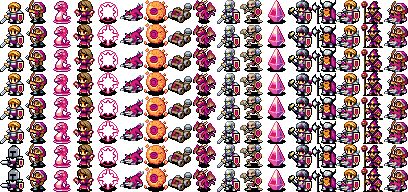
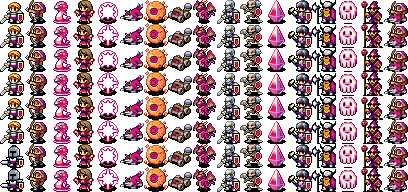
add unit ghost

Changed region(s): [[0.8235, 0.0, 0.8824, 1.0]]

diff --git a/core/src/com/toyknight/aeii/screen/wiki/Wiki.java b/core/src/com/toyknight/aeii/screen/wiki/Wiki.java
@@ -81,7 +81,7 @@ public class Wiki extends BasicDialog {
         RootNode node_terrains = RootNode.create(RootNode.TERRAINS, getContext().getSkin());
         RootNode node_units = RootNode.create(RootNode.UNITS, getContext().getSkin());
         for (int index = 0; index < UnitFactory.getUnitCount(); index++) {
-            if (index != UnitFactory.getCrystalIndex() && index != 14 && index != 16) {
+            if (index != UnitFactory.getCrystalIndex() && index != 16) {
                 node_units.add(UnitNode.create(index, getContext().getSkin()));
             }
         }

diff --git a/core/src/com/toyknight/aeii/entity/Rule.java b/core/src/com/toyknight/aeii/entity/Rule.java
@@ -140,7 +140,7 @@ public class Rule implements Serializable {
         int crystal = UnitFactory.getCrystalIndex();
         Array<Integer> unit_list = new Array<Integer>();
         for (int index = 0; index < UnitFactory.getUnitCount(); index++) {
-            if (index != commander && index != skeleton && index != crystal && index != 14 && index != 16) {
+            if (index != commander && index != skeleton && index != crystal && index != 16) {
                 unit_list.add(index);
             }
         }
